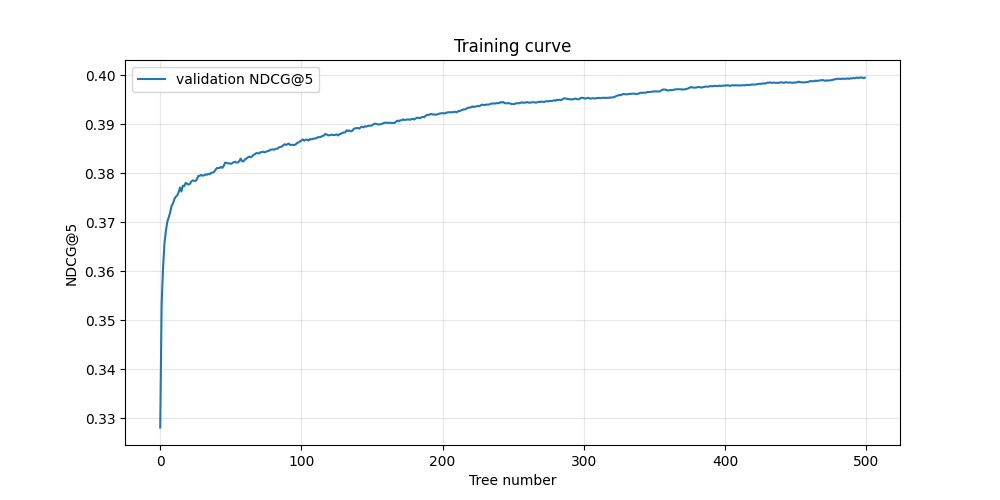
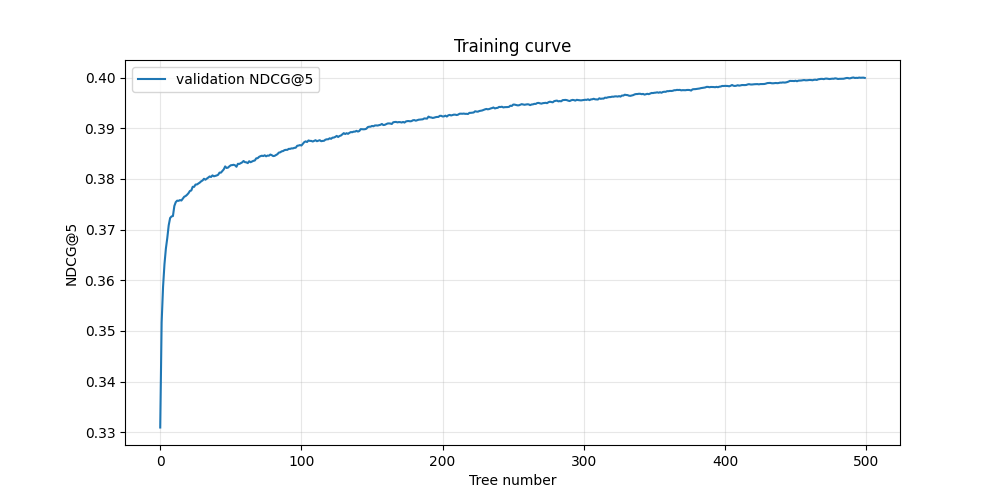
merge kmeans features with my code; performance stagnates at 0.4

diff --git a/other_features.py b/other_features.py
@@ -6,6 +6,11 @@
 import pandas as pd
 import numpy as np
 
+import os
+import pandas as pd
+from sklearn.preprocessing import StandardScaler
+from sklearn.cluster import KMeans
+
 def add_search_relative_features(df: pd.DataFrame) -> pd.DataFrame:
     """
     Adds within-search relative features, comparing each hotel
@@ -39,8 +44,262 @@ def add_search_relative_features(df: pd.DataFrame) -> pd.DataFrame:
     df['prop_review_score_zscore'] = df['prop_review_score_diff'] / search_review_std
 
     # position features (only available in train/valid, not test)
-    # we take the log
-    if 'position' in df.columns:
-        df['log_position'] = np.log1p(df['position'])
+    # we take the log; let's remove bc leakage maybe 
+    # if 'position' in df.columns:
+    #     df['log_position'] = np.log1p(df['position'])
 
     return df
+
+
+
+# FEATURE ENGINEERING
+
+def add_basic_features(df: pd.DataFrame) -> pd.DataFrame:
+    df = df.copy()
+
+    # ── Date ────────────────────────────────────────────────
+    df["date_time"]       = pd.to_datetime(df["date_time"])
+    df["search_month"]    = df["date_time"].dt.month
+    df["search_day"]      = df["date_time"].dt.dayofweek
+    df["search_hour"]     = df["date_time"].dt.hour         
+
+    # ── Travel party ────────────────────────────────────────
+    df["total_people"]    = df["srch_adults_count"] + df["srch_children_count"]
+    df["is_family"]       = (df["srch_children_count"] > 0).astype(int)
+    df["is_solo"]         = (df["srch_adults_count"] == 1) & (df["srch_children_count"] == 0)
+    df["is_solo"]         = df["is_solo"].astype(int)
+    df["is_couple"]       = (df["srch_adults_count"] == 2) & (df["srch_children_count"] == 0)
+    df["is_couple"]       = df["is_couple"].astype(int)
+    df["is_group"]        = (df["srch_adults_count"] > 2).astype(int)
+    df["people_per_room"] = df["total_people"] / df["srch_room_count"].replace(0, 1)
+
+    # ── Trip style ───────────────────────────────────────────
+    df["is_long_stay"]    = (df["srch_length_of_stay"] >= 4).astype(int)
+    df["is_weekend_trip"] = df["srch_saturday_night_bool"].astype(int)
+    df["is_last_minute"]  = (df["srch_booking_window"] <= 3).astype(int)
+    df["is_planned"]      = (df["srch_booking_window"] > 14).astype(int)
+    df["log_booking_win"] = np.log1p(df["srch_booking_window"])
+    df["log_length_stay"] = np.log1p(df["srch_length_of_stay"])
+
+    # ── Visitor history ──────────────────────────────────────
+    df["has_hist_star"]       = df["visitor_hist_starrating"].notnull().astype(int)
+    df["has_hist_price"]      = df["visitor_hist_adr_usd"].notnull().astype(int)
+    df["is_high_end_user"]    = (df["visitor_hist_starrating"] >= 4).astype(int)
+    df["star_pref_delta"]     = (
+        df["prop_starrating"] - df["visitor_hist_starrating"]
+    )  # positive = above their usual standard
+    df["price_pref_delta"]    = (
+        df["price_usd"] - df["visitor_hist_adr_usd"]
+    )
+
+    # ── Geographic ──────────────────────────────────────────
+    df["same_country"]        = (
+        df["visitor_location_country_id"] == df["prop_country_id"]
+    ).astype(int)
+
+    # ── Price ────────────────────────────────────────────────
+    df["log_price"]           = np.log1p(df["price_usd"])
+
+    # ── Property quality ─────────────────────────────────────
+    df["quality_score"]       = (
+        df["prop_starrating"] * 0.4 + df["prop_review_score"] * 0.6
+    )  # weighted blend used as a single quality axis
+    df["has_promotion"]       = df["promotion_flag"].fillna(0).astype(int)
+
+    # ── Expedia positioning signals ──────────────────────────
+    df["log_position"]        = np.log1p(df.get("position", 0))
+    # position is only available in training; harmless NaN in test
+
+    # ── Per-query relative ranks (competitive context) ───────
+    for col, ascending in [
+        ("price_usd",         True),
+        ("prop_starrating",   False),
+        ("prop_review_score", False),
+        ("prop_location_score1", False),
+    ]:
+        if col in df.columns:
+            df[f"{col}_rank"] = df.groupby("srch_id")[col].rank(
+                ascending=ascending, method="average"
+            )
+
+    return df
+
+
+def add_property_agg_features(train: pd.DataFrame, test: pd.DataFrame) -> tuple:
+    """
+    Compute historical booking/click rates per property from training data.
+    Avoids leakage by computing on the full training set before the split.
+
+    I will be skipping this function because I fear leakage problems
+    """
+    # Click-through and booking rates per property
+    # has no LOO so probably leakage !!!
+    prop_stats = (
+        train.groupby("prop_id")
+        .agg(
+            prop_click_rate  = ("click_bool",   "mean"),
+            prop_book_rate   = ("booking_bool", "mean"),
+            prop_n_queries   = ("srch_id",      "nunique"),
+            prop_mean_price  = ("price_usd",    "mean"),
+            prop_mean_star   = ("prop_starrating", "mean"),
+            prop_mean_review = ("prop_review_score", "mean"),
+        )
+        .reset_index()
+    )
+
+    # Country-level booking rates
+    country_stats = (
+        train.groupby("prop_country_id")
+        .agg(
+            country_book_rate = ("booking_bool", "mean"),
+            country_click_rate = ("click_bool",  "mean"),
+        )
+        .reset_index()
+    )
+
+    train = train.merge(prop_stats,    on="prop_id",         how="left")
+    train = train.merge(country_stats, on="prop_country_id", how="left")
+
+    test  = test.merge(prop_stats,    on="prop_id",         how="left")
+    test  = test.merge(country_stats, on="prop_country_id", how="left")
+
+    # Fill unseen properties (cold start) with a conservative low value
+    for df in [train, test]:
+        for col in ["prop_click_rate", "prop_book_rate"]:
+            df[col] = df[col].fillna(df[col].quantile(0.25))
+        for col in ["country_book_rate", "country_click_rate"]:
+            df[col] = df[col].fillna(df[col].median())
+
+    return train, test
+
+
+def only_train_test_add_user_cluster_features(
+    train: pd.DataFrame, test: pd.DataFrame
+) -> tuple:
+    """
+    K-Means user segmentation on search-level features.
+    Fit on combined train+test so test users get proper assignments.
+    """
+    train = train.copy()
+    test  = test.copy()
+
+    train["_is_train"] = 1
+    test["_is_train"]  = 0
+    combined = pd.concat([train, test], axis=0, ignore_index=True)
+
+    user_features = [
+        "srch_length_of_stay", "srch_booking_window", "srch_room_count",
+        "is_family", "is_solo", "is_couple", "is_group",
+        "total_people", "people_per_room",
+        "is_long_stay", "is_weekend_trip", "is_last_minute", "is_planned",
+        "has_hist_star", "is_high_end_user", "same_country",
+        "search_month", "search_day", "search_hour",
+    ]
+
+    user_df = combined[["srch_id"] + user_features].drop_duplicates("srch_id").copy()
+
+    log_cols = [
+        "srch_booking_window", "srch_length_of_stay", "total_people", "people_per_room"
+    ]
+    for col in log_cols:
+        user_df[col] = np.log1p(user_df[col])
+
+    user_df[user_features] = (
+        user_df[user_features]
+        .replace([np.inf, -np.inf], np.nan)
+        .fillna(-999)
+    )
+
+    X_scaled = StandardScaler().fit_transform(user_df[user_features])
+
+    N_CLUSTERS = 6   # one extra: "family planner" now distinct from "long-stay planner"
+    km = KMeans(n_clusters=N_CLUSTERS, random_state=42, n_init=10)
+    user_df["user_cluster"] = km.fit_predict(X_scaled)
+
+    combined = combined.merge(
+        user_df[["srch_id", "user_cluster"]], on="srch_id", how="left"
+    )
+
+    # One-hot encode clusters for the model
+    for k in range(N_CLUSTERS):
+        combined[f"cluster_{k}"] = (combined["user_cluster"] == k).astype(int)
+
+    train_out = combined[combined["_is_train"] == 1].drop(columns=["_is_train"])
+    test_out  = combined[combined["_is_train"] == 0].drop(columns=["_is_train"])
+    return train_out, test_out
+
+
+
+
+def add_user_cluster_features_with_validation(
+    train: pd.DataFrame, 
+    valid: pd.DataFrame,
+    test: pd.DataFrame
+) -> tuple[pd.DataFrame, pd.DataFrame, pd.DataFrame]:
+    """
+    K-Means user segmentation on search-level features.
+    Fit on train only, apply to valid and test separately to avoid leakage.
+    """
+    train = train.copy()
+    valid = valid.copy()
+    test = test.copy()
+
+    user_features = [
+        "srch_length_of_stay", "srch_booking_window", "srch_room_count",
+        "is_family", "is_solo", "is_couple", "is_group",
+        "total_people", "people_per_room",
+        "is_long_stay", "is_weekend_trip", "is_last_minute", "is_planned",
+        "has_hist_star", "is_high_end_user", "same_country",
+        "search_month", "search_day", "search_hour",
+    ]
+
+    def get_user_df(df):
+        user_df = df[["srch_id"] + user_features].drop_duplicates("srch_id").copy()
+        log_cols = ["srch_booking_window", "srch_length_of_stay", "total_people", "people_per_room"]
+        for col in log_cols:
+            user_df[col] = np.log1p(user_df[col])
+        user_df[user_features] = (
+            user_df[user_features]
+            .replace([np.inf, -np.inf], np.nan)
+            .fillna(-999)
+        )
+        return user_df
+
+    # fit scaler and kmeans on train only
+    train_user_df = get_user_df(train)
+    scaler = StandardScaler()
+    # fit model and uses zscore for it (=scaling)
+    X_train_scaled = scaler.fit_transform(train_user_df[user_features])
+
+    N_CLUSTERS = 6
+    km = KMeans(n_clusters=N_CLUSTERS, random_state=42, n_init=10)
+    train_user_df["user_cluster"] = km.fit_predict(X_train_scaled)
+
+    # apply to valid and test using fitted scaler and kmeans
+    # note we do NOT fit on the validation and test set to avoid leakage
+    # apply kmeans to validation set
+    valid_user_df = get_user_df(valid)
+    X_valid_scaled = scaler.transform(valid_user_df[user_features]) # no fitting, only scaling
+    valid_user_df["user_cluster"] = km.predict(X_valid_scaled)
+
+    # apply kmeans to test set
+    test_user_df = get_user_df(test)
+    X_test_scaled = scaler.transform(test_user_df[user_features])  # no fitting, only scaling
+    test_user_df["user_cluster"] = km.predict(X_test_scaled)
+
+    # merge back
+    for df, user_df in [(train, train_user_df), (valid, valid_user_df), (test, test_user_df)]:
+        df_merged = df.merge(user_df[["srch_id", "user_cluster"]], on="srch_id", how="left")
+        for k in range(N_CLUSTERS):
+            df_merged[f"cluster_{k}"] = (df_merged["user_cluster"] == k).astype(int)
+    
+    # reassign since merge creates new df
+    train = train.merge(train_user_df[["srch_id", "user_cluster"]], on="srch_id", how="left")
+    valid = valid.merge(valid_user_df[["srch_id", "user_cluster"]], on="srch_id", how="left")
+    test = test.merge(test_user_df[["srch_id", "user_cluster"]], on="srch_id", how="left")
+
+    for df in [train, valid, test]:
+        for k in range(N_CLUSTERS):
+            df[f"cluster_{k}"] = (df["user_cluster"] == k).astype(int)
+
+    return train, valid, test

diff --git a/lambdamart.py b/lambdamart.py
@@ -1,5 +1,6 @@
 #
-#
+# NOTE WE NEED hotel_performance.py AND other_features.py FOR THIS TO RUN !!!
+# USES xgboost NOT lightlbm SO THAT MIGHT CHANGE PERFORMANCE
 #
 
 import pandas as pd
@@ -7,7 +8,7 @@ from pandas import Series
 from xgboost import XGBRanker
 from sklearn.model_selection import GroupShuffleSplit
 from hotel_performance import extract_hotel_performance_train, extract_hotel_performance_test
-from other_features import add_search_relative_features
+from other_features import add_search_relative_features, add_basic_features, add_user_cluster_features_with_validation
 import matplotlib.pyplot as plt
 
 TESTING_MODE = False
@@ -68,10 +69,21 @@ _, valid_fold = extract_hotel_performance_test(
 _, test_fold = extract_hotel_performance_test(train_df, test_df)
 print(f"test_fold unique srch_ids after extract: {test_fold['srch_id'].nunique()}")
 
+# Add basic features
+train_fold = add_basic_features(train_fold)
+valid_fold = add_basic_features(valid_fold)
+test_fold = add_basic_features(test_fold)
+
 # ADD SEARCH RELATIVE FEATURES
 train_fold = add_search_relative_features(train_fold)
 valid_fold = add_search_relative_features(valid_fold)
 test_fold = add_search_relative_features(test_fold)
+
+# add cluster features
+train_fold, valid_fold, test_fold = add_user_cluster_features_with_validation(train_fold, valid_fold, test_fold)
+
+# DEBUG
+print('\n ===== DUPLICATIED COLUMNS in train fold: ', train_fold.columns.duplicated().sum())
 
 # add relevance
 train_fold['relevance'] = 0
@@ -136,6 +148,34 @@ features = [
     'prop_starrating_zscore',
     'prop_review_score_diff',
     'prop_review_score_zscore',
+
+    # add_basic_features
+    'search_month',
+    'search_day',
+    'search_hour',
+    'total_people',
+    'is_family',
+    'is_solo',
+    'is_couple',
+    'is_group',
+    'people_per_room',
+    'is_long_stay',
+    'is_last_minute',
+    'is_planned',
+    'log_booking_win',
+    'log_length_stay',
+    'has_hist_star',
+    'has_hist_price',
+    'is_high_end_user',
+    'star_pref_delta',
+    'price_pref_delta',
+    'same_country',
+    'log_price',
+    'quality_score',
+
+    # add_user_cluster_features
+    'cluster_0', 'cluster_1', 'cluster_2',
+    'cluster_3', 'cluster_4', 'cluster_5',
 ]
 
 train_fold = train_fold.sort_values('srch_id')
@@ -197,6 +237,13 @@ valid_fold['prediction'] = model.predict(X_valid)
 # predict on test
 X_test = test_fold[features]
 test_fold['prediction'] = model.predict(X_test)
+
+# DEBUG
+print('\n===== NANS IN X_.... =======')
+print(X_train.isna().sum().sum())
+print(X_valid.isna().sum().sum())
+print(X_test.isna().sum().sum())
+print('=' * 50)
 
 
 # submission to csv